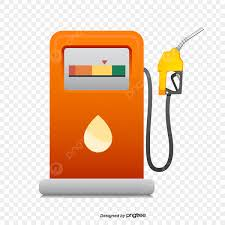
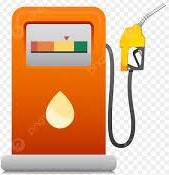
subida a netlify

diff --git a/gas.js b/gas.js
@@ -1,26 +1,26 @@
 class Gas {
     constructor(gameScreen) {
         this.gameScreen = gameScreen;
-        this.left = Math.floor(Math.random() * 300 + 50);
+        this.left = Math.floor(Math.random() * 500 + 50);
         this.top = 0;
         this.width = 30;
         this.height = 30;
-        this.element = document.createElement("img");
+        this.elementFuel = document.createElement("img");
     
-        this.element.src = "./images/fuelstation.jpg"
-        this.element.style.position = "absolute";
-        this.element.style.width = `${this.width}px`;
-        this.element.style.height = `${this.height}px`;
-        this.element.style.left = `${this.left}px`;
-        this.element.style.top = `${this.top}px`;
+        this.elementFuel.src = "./images/fuelstation.png";
+        this.elementFuel.style.position = "absolute";
+        this.elementFuel.style.width = `${this.width}px`;
+        this.elementFuel.style.height = `${this.height}px`;
+        this.elementFuel.style.left = `${this.left}px`;
+        this.elementFuel.style.top = `${this.top}px`;
     
-        this.gameScreen.appendChild(this.element);
+        this.gameScreen.appendChild(this.elementFuel);
       }
 
       updatePosition() {
         // Update the obstacle's position based on the properties left and top
-        this.element.style.left = `${this.left}px`;
-        this.element.style.top = `${this.top}px`;
+        this.elementFuel.style.left = `${this.left}px`;
+        this.elementFuel.style.top = `${this.top}px`;
       }
       move() {
        

diff --git a/firstairplane.js b/firstairplane.js
@@ -42,7 +42,7 @@ class Game {
         this.kilometers +=1   
         const kilometersCounter = this.gamepage.parentElement.querySelector("#kilometers");
         kilometersCounter.innerText = this.kilometers;
-        if (this.kilometers >= 10000) {
+        if (this.kilometers >= 1000) {
             this.gameIsOver = true;
             clearInterval(this.gameIntervalId);
             this.gamepage.style.display = "none";
@@ -58,8 +58,14 @@ class Game {
             if (obstacle.top === this.gamepage.offsetHeight -10) {
                 this.obstacles.splice(index, 1);
                 obstacle.element.remove();
-                this.counter++;
-
+             
+        /*this.gas.forEach((gas) => {  
+            gas.move();
+            if (gas.top === this.gamepage.offsetHeight -10) {
+                this.obstacles.splice(index, 1);
+                obstacle.element.remove();
+                this.counter++;   
+                     
                 /*const obstaclecounter = this.gamepage.parentElement.querySelector("#kilometers")
                 kilometersCounter.innerText = this.kilometers
                 console.log(this.obstacles);*/

diff --git a/firstairplane.html b/firstairplane.html
@@ -37,8 +37,10 @@
                 <button id="restart-button">Restart</button>
             </div>
         </main>
-        <script type="text/javascript" src="gas.js"></script>
+        
         <script type="text/javascript" src="obstacle.js"></script>
+        <script type="text/javascript" src="gas.js"></script>
+       
         <script type="text/javascript" src="player.js"></script>
         <script type="text/javascript" src="firstairplane.js"></script>
         <script type="text/javascript" src="airscript.js"></script>

diff --git a/airscript.js b/airscript.js
@@ -8,7 +8,9 @@ let game;
 startButton.addEventListener("click", function() {
   startGame();
 });
-  
+restartButton.addEventListener("click", function() {
+  startGame();
+});  
 function startGame() {
   game = new Game();
   game.start();
@@ -35,4 +37,6 @@ function startGame() {
     game.player.directionX = 0;
     game.player.directionY = 0;
   })
+
+
 };

diff --git a/obstacle.js b/obstacle.js
@@ -29,3 +29,5 @@ class Obstacles {
         this.updatePosition();
       }
     };
+
+    
